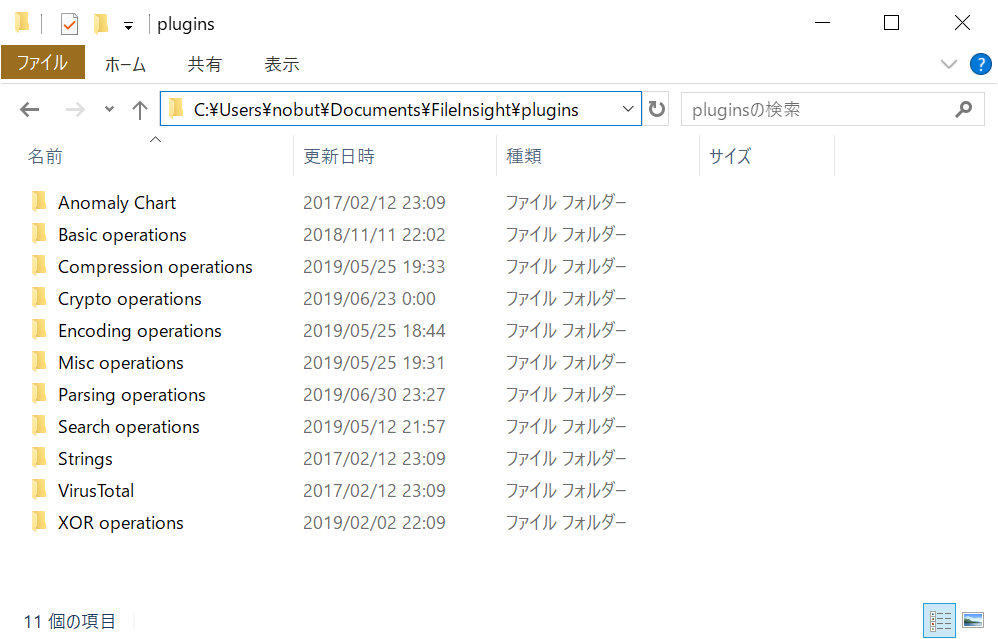
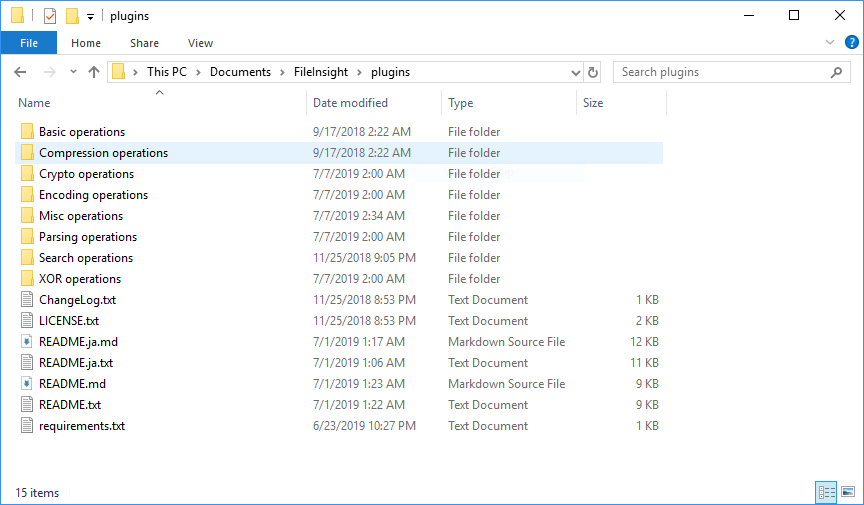
- Add the reference to the screen shot of explorer in README.ja.md. - Add "How to use:" section to README.ja.txt and README.txt. - Replace folders.png with a new one (English version).

diff --git a/README.ja.md b/README.ja.md
@@ -11,6 +11,8 @@
 プラグインのフォルダを %USERPROFILE%\Documents\FileInsight\plugins
 にコピーしてください。FileInsight に加えて Python 2.7 (x86) をインストールしておく必要があります。
 
+![folders.png](folders.png)
+
 ### **お知らせ**
 残念なことに FileInsight は McAfee 社の Free Tools のウェブサイトから削除されました。
 しかしながら、FileInsight のインストーラは以下の場所から引き続きダウンロード可能です。
